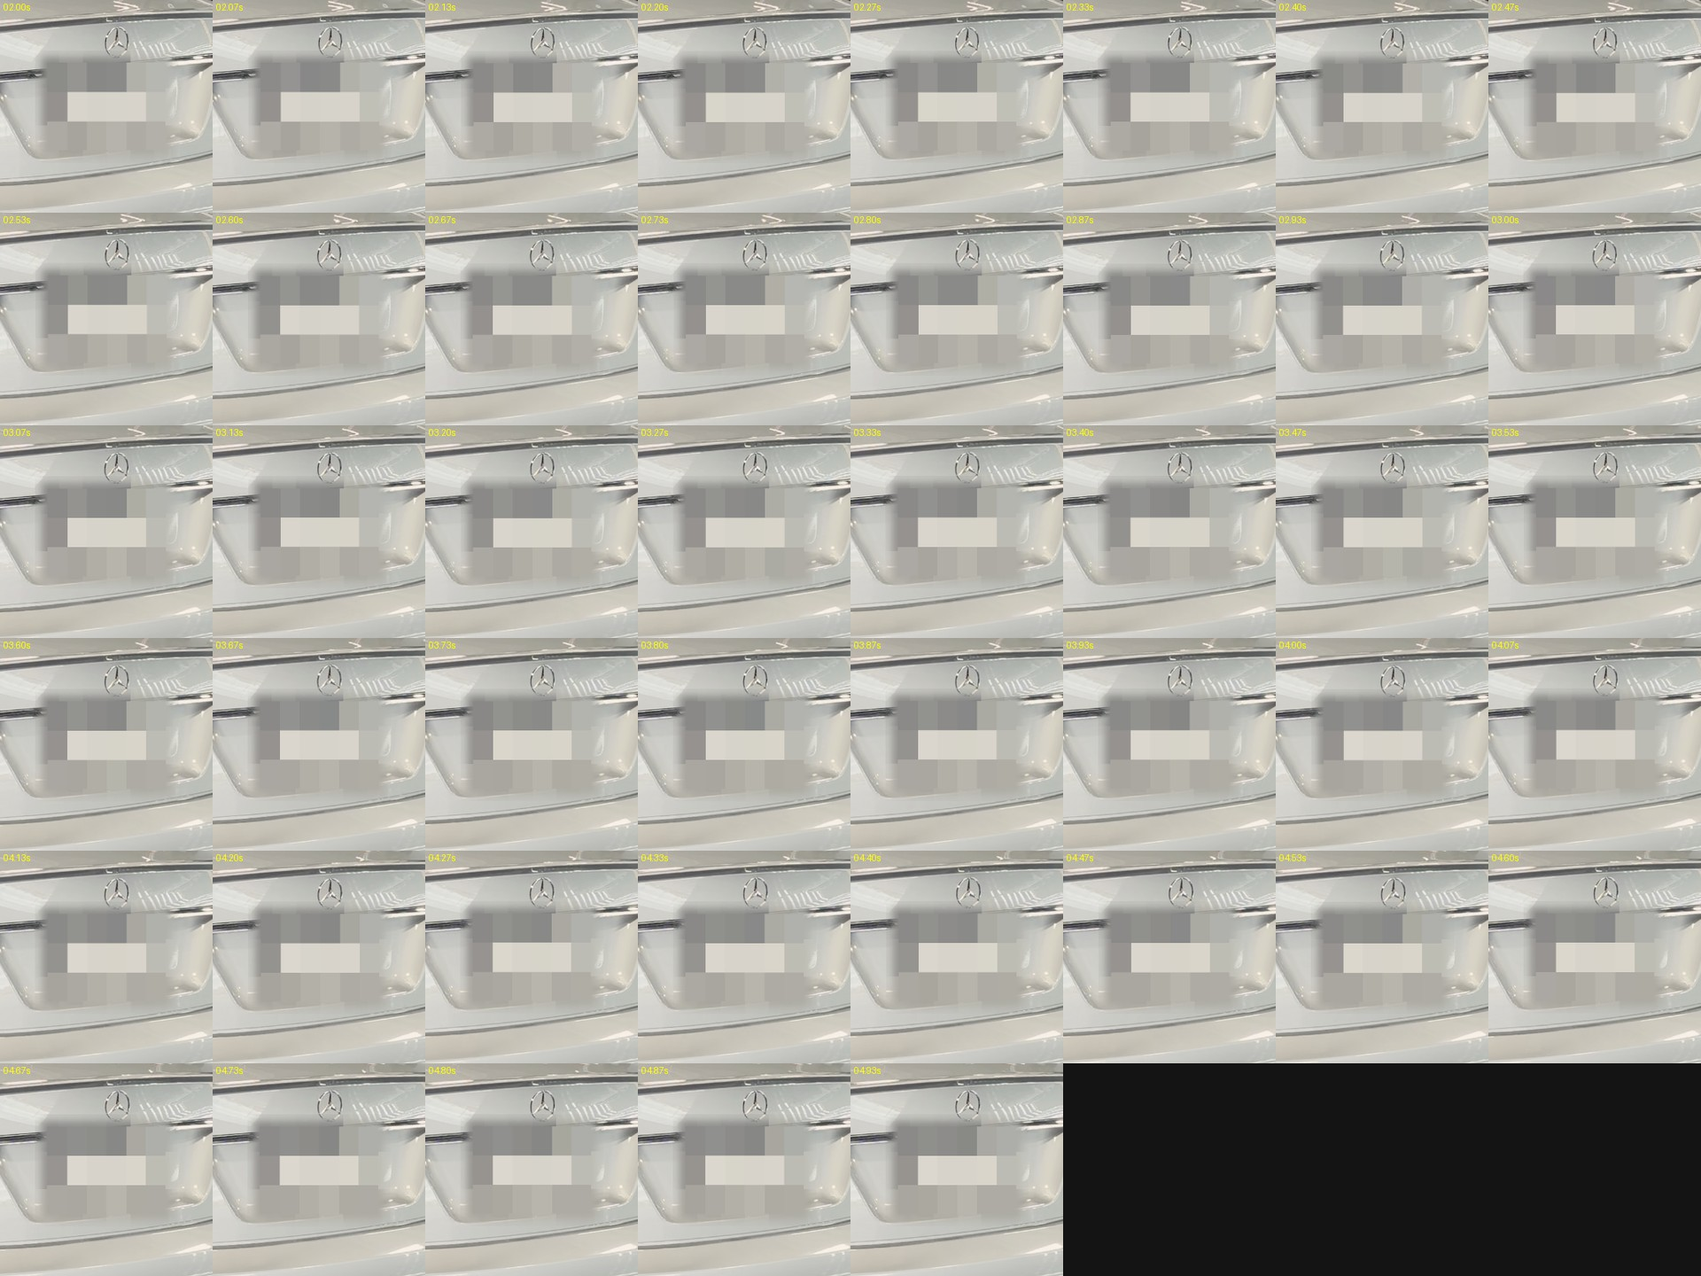
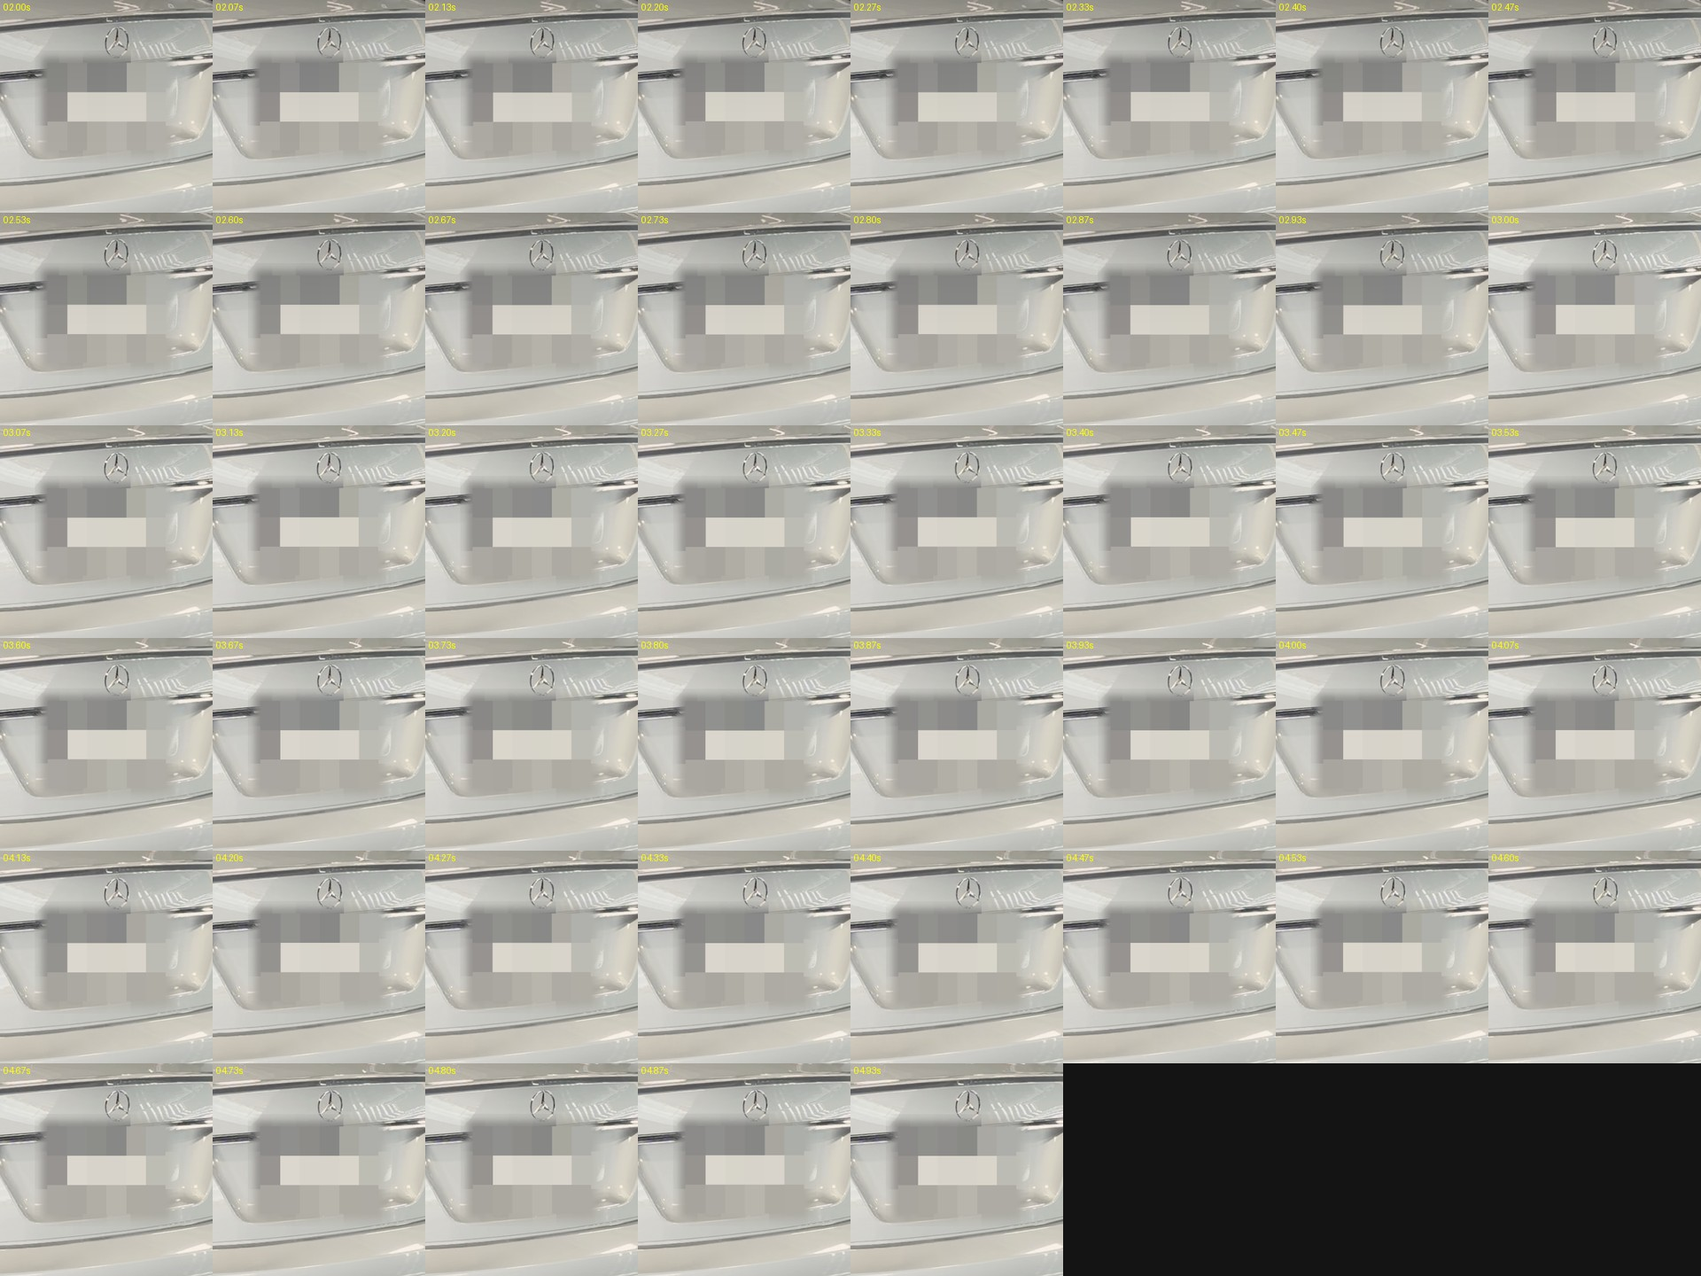
FD C63 Cut Back v2: brands off screen, car sound only, 15.15 s
After nq-check: parts framed clear of the hang tag and the can's etched
maker text (every-frame brand-scan sheets), lift and third-party branding
off the before shot, synthetic sub hits and whoosh removed (real L/J-cuts
instead), parts cut to 2.9 s, NEW. on the X-pipe, piping close-up added
to the payoff, hook text 40 px lower, dates sourced in README.

Claude-Session: https://claude.ai/code/session_01VygxzDhjPWGsTKabbZH8VW

diff --git a/formula-dynamics/14-fd-commercials/2026-10-28-c63-cut-back/build.py b/formula-dynamics/14-fd-commercials/2026-10-28-c63-cut-back/build.py
@@ -7,7 +7,8 @@ One car, one question: open on the payoff (a rev), cut back to the stock car
 Pipeline: ffmpeg decodes each source window (autorotated to 2160x3840 portrait)
 -> numpy/OpenCV per frame: plate + meter redaction (tracked, in source space),
 crop/push, grade, text -> raw frames piped to libx264. Audio is rebuilt in numpy
-from the same windows plus self-synthesised sub hits, then two-pass loudnorm.
+from the same windows only (the car's own sound, no music, no added effects),
+then two-pass loudnorm.
 
 Usage:
   python3 build.py --raw <dir with IMG_0325/0579/0590.MOV> [--stills] [--only-audio]
@@ -37,7 +38,7 @@ RED = fd_brand.rgb(fd_brand.RED)
 ICON = FD / "02-logos/png-transparent/fd-icon-mark-only--white_1000w.png"
 EXPORTS = HERE / "exports"
 QA = EXPORTS / "qa"
-OUT_MP4 = EXPORTS / "FD C63 - Cut Back (exhaust, 17s) - INSTAGRAM 1080x1920.mp4"
+OUT_MP4 = EXPORTS / "FD C63 - Cut Back (exhaust, 15s) - INSTAGRAM 1080x1920.mp4"
 OUT_COVER = EXPORTS / "FD C63 - Cut Back - cover STATIC 1080x1920.jpg"
 
 # 9:16 keep-out zones: top 11%, bottom 20%, left 5%, right 16%
@@ -50,6 +51,8 @@ SAFE = dict(x0=int(W * 0.05), x1=int(W * 0.84), y0=int(H * 0.11), y1=int(H * 0.8
 PLATE_0590 = (690, 745, 1100, 1015)
 METER_0590 = (632, 2075, 910, 2480)       # LCD readout of the sound meter
 PLATE_0325 = (1165, 1880, 1395, 2050)
+LIVERY_0325 = (1495, 1610, 1610, 1750)    # another customer's car: sponsor logo + name on its side
+CRATE_0325 = (1640, 2050, 1780, 2150)     # printed maker emblems on a parts box by the tail light
 
 # ---------------------------------------------------------------------------
 # Shot list. crop = ((cx, cy, w) at start, (cx, cy, w) at end) in source px;
@@ -59,28 +62,34 @@ SHOTS = [
     dict(name="hook", src="IMG_0590.MOV", t_in=63.40, dur=2.0,
          crop=((1530, 1120, 1260), (1565, 1200, 1120)),
          redact=[("plate", PLATE_0590, (6, 3)), ("meter", METER_0590, (3, 4))]),
+    # crop top held at source y 1380: the lift posts' maker branding sits above y 1290
     dict(name="before", src="IMG_0325.MOV", t_in=4.25, dur=3.0,
-         crop=((900, 1900, 1800), (930, 1900, 1660)),
-         redact=[("plate", PLATE_0325, (6, 3))]),
-    # 0579 windows start at 7.2 s: before that a branded hang tag (part maker's logo,
-    # serial and address) is in frame, and part brands stay off screen.
-    dict(name="parts1", src="IMG_0579.MOV", t_in=7.20, dur=1.0,
-         crop=((1080, 1920, 2160), (1080, 1800, 1900)), redact=[]),
-    dict(name="parts2", src="IMG_0579.MOV", t_in=8.30, dur=1.0,
-         crop=((1080, 1920, 1880), (1080, 1920, 2100)), redact=[]),
-    dict(name="parts3", src="IMG_0579.MOV", t_in=9.60, dur=1.3,
-         crop=((1080, 1920, 2160), (1080, 2000, 1900)), redact=[]),
-    dict(name="parts4", src="IMG_0579.MOV", t_in=11.10, dur=1.2,
-         crop=((1080, 2100, 1750), (1080, 2100, 1900)), redact=[]),
-    dict(name="parts5", src="IMG_0579.MOV", t_in=12.35, dur=1.5,
-         crop=((1080, 1920, 2160), (1080, 1980, 2000)), redact=[]),
-    dict(name="coldstart", src="IMG_0590.MOV", t_in=6.15, dur=2.45,
+         crop=((1150, 2500, 1260), (1150, 2447, 1200)),
+         redact=[("plate", PLATE_0325, (6, 3)), ("livery", LIVERY_0325, (3, 3)),
+                 ("crate", CRATE_0325, (3, 2))]),
+    # Parts (0579). Part brands stay off screen, by framing only:
+    #  - the hang tag (maker's logo, serial, address) hangs under the X-pipe's second brace;
+    #    parts1 is framed left of / above it for every frame;
+    #  - the muffler can carries an etched maker name and text lines on its side; parts2 and
+    #    parts3 are framed below / above the can.
+    dict(name="parts1", src="IMG_0579.MOV", t_in=5.10, dur=1.1,
+         crop=((530, 1400, 1060), (500, 1650, 980)), redact=[]),
+    dict(name="parts2", src="IMG_0579.MOV", t_in=7.45, dur=0.5,
+         crop=((420, 3200, 800), (420, 3260, 760)), redact=[]),
+    dict(name="parts3", src="IMG_0579.MOV", t_in=10.35, dur=1.3,
+         crop=((600, 1740, 1200), (800, 1800, 1100)), redact=[]),
+    dict(name="coldstart", src="IMG_0590.MOV", t_in=6.20, dur=2.45, a_pre=0.50,
          crop=((1330, 1475, 1659), (1350, 1475, 1590)),
          redact=[("plate", PLATE_0590, (6, 3)), ("meter", METER_0590, (3, 4))]),
-    dict(name="rev", src="IMG_0590.MOV", t_in=54.45, dur=2.55,
+    # the new burnt piping under the bumper, between the tip pairs; source y 1027-2093
+    # keeps the plate (ends y 1015) out and the meter's logo box far below
+    dict(name="piping", src="IMG_0590.MOV", t_in=53.90, dur=0.8,
+         crop=((880, 1560, 520), (880, 1580, 470)),
+         redact=[("plate", PLATE_0590, (6, 3)), ("meter", METER_0590, (3, 4))]),
+    dict(name="rev", src="IMG_0590.MOV", t_in=54.70, dur=2.30,
          crop=((1420, 1300, 1400), (1420, 1300, 1400)),
          redact=[("plate", PLATE_0590, (6, 3)), ("meter", METER_0590, (3, 4))]),
-    dict(name="end", src="IMG_0590.MOV", t_in=57.00, dur=1.5,
+    dict(name="end", src="IMG_0590.MOV", t_in=57.00, dur=1.7,
          crop=((1420, 1300, 1400), (1420, 1300, 1400)),
          redact=[("plate", PLATE_0590, (6, 3)), ("meter", METER_0590, (3, 4))],
          darken=True),
@@ -106,7 +115,7 @@ CARDS = [
     dict(id="hook", t_in=0.0, t_out=shot_at("before")["t0"]),
     dict(id="SEP 29", t_in=shot_at("before")["t0"], t_out=shot_at("before")["t0"] + 1.0, typed=True),
     dict(id="OCT 7", t_in=P1, t_out=P1 + 1.0, typed=True),
-    dict(id="NEW.", t_in=P1 + 7 / FPS, t_out=P1 + 7 / FPS + 0.7),
+    dict(id="NEW.", t_in=P1 + 6 / FPS, t_out=P1 + 6 / FPS + 0.7),     # on the X-pipe
     dict(id="endmark", t_in=shot_at("end")["t0"], t_out=TOTAL),
 ]
 
@@ -137,7 +146,7 @@ def card_hook():
         size -= 2
     f = font(size)
     x = SAFE["x0"] + 10
-    y = SAFE["y0"] + 30
+    y = SAFE["y0"] + 70                       # 40 px lower than v1: clears the grid's 3:4 crop
     asc, desc = f.getmetrics()
     lh = int(size * 0.92)
     d.text((x, y), l1, font=f, fill=(255, 255, 255, 255))
@@ -406,27 +415,6 @@ def read_audio(path, t_in, dur):
     return a.reshape(-1, 2).copy()
 
 
-def sub_hit(dur=0.35, f0=58.0, level=0.5):
-    n = int(dur * SR); t = np.arange(n) / SR
-    f = f0 * (1 + 0.6 * np.exp(-t * 30))                      # small pitch drop
-    ph = 2 * np.pi * np.cumsum(f) / SR
-    env = np.exp(-t * 9) * np.minimum(1, t / 0.004)
-    s = np.sin(ph) * env * level
-    return np.stack([s, s], axis=1)
-
-
-def whoosh(dur=0.45, level=0.12, seed=7):
-    rng = np.random.default_rng(seed)
-    n = int(dur * SR)
-    x = rng.standard_normal(n)
-    # crude band-pass via moving averages
-    lp = np.convolve(x, np.ones(12) / 12, mode="same")
-    bp = lp - np.convolve(lp, np.ones(120) / 120, mode="same")
-    env = np.sin(np.linspace(0, np.pi, n)) ** 2 * np.linspace(0.4, 1, n)
-    s = bp / (np.abs(bp).max() + 1e-9) * env * level
-    return np.stack([s, s * 0.9], axis=1)
-
-
 def fade(a, fin=0.008, fout=0.012):
     n = len(a); i = int(fin * SR); o = int(fout * SR)
     if i: a[:i] *= np.linspace(0, 1, i)[:, None]
@@ -434,28 +422,25 @@ def fade(a, fin=0.008, fout=0.012):
     return a
 
 
-GAIN_DB = {"hook": 0, "before": 0, "parts1": -4, "parts2": -4, "parts3": -4, "parts4": -4, "parts5": -4,
-           "coldstart": 0, "rev": 0, "end": 0}
+GAIN_DB = {"hook": 0, "before": 0, "parts1": 0, "parts2": 0, "parts3": 0,
+           "coldstart": 0, "piping": 0, "rev": 0, "end": 0}
+A_POST = {"before": 1.20}      # L-cut: the stock car's rev and idle carry 1.2 s into the parts
 
 
 def build_audio(raw, wav_path):
     N = int(round(TOTAL * SR))
     mix = np.zeros((N + SR, 2), np.float32)
+    # Each window's own audio only. J-cut (a_pre): the cold start's own cranking comes in
+    # under the last parts cut; L-cut (A_POST): the stock rev decays under the first.
     for s in SHOTS:
-        a = read_audio(raw / s["src"], s["t_in"], s["dur"])
-        a = a[: int(round(s["dur"] * SR))]
-        a = fade(a, fin=0.0 if s["name"] == "hook" else 0.008,
-                 fout=1.3 if s["name"] == "end" else 0.012) * (10 ** (GAIN_DB[s["name"]] / 20))
-        i0 = int(round(s["t0"] * SR))
+        pre, post = s.get("a_pre", 0.0), A_POST.get(s["name"], 0.0)
+        dur = s["dur"] + pre + post
+        a = read_audio(raw / s["src"], s["t_in"] - pre, dur)
+        a = a[: int(round(dur * SR))]
+        a = fade(a, fin=0.0 if s["name"] == "hook" else (0.15 if pre else 0.008),
+                 fout=1.3 if s["name"] == "end" else (0.50 if post else 0.012)) * (10 ** (GAIN_DB[s["name"]] / 20))
+        i0 = int(round((s["t0"] - pre) * SR))
         mix[i0:i0 + len(a)] += a
-    # sub hits on the parts cuts and into the payoff; whoosh into the payoff
-    for nm in ("parts1", "parts2", "parts3", "parts4", "parts5", "coldstart"):
-        i0 = int(round(shot_at(nm)["t0"] * SR))
-        h = sub_hit(level=0.55 if nm == "coldstart" else 0.4)
-        mix[i0:i0 + len(h)] += h
-    w = whoosh()
-    i1 = int(round(shot_at("coldstart")["t0"] * SR)) - len(w)
-    mix[i1:i1 + len(w)] += w
     mix = mix[:N]
     mix *= 0.7 / max(1e-9, float(np.abs(mix).max()))   # headroom before 16-bit; loudnorm sets level
     pcm = (np.clip(mix, -1, 1) * 32767).astype("<i2").tobytes()
@@ -519,6 +504,11 @@ def main():
             enc.stdin.write(o.tobytes())
             if meta["boxes"]:
                 log.append(dict(frame=fidx, t=round(tsec, 3), shot=s["name"], **meta))
+            if s["name"].startswith("parts") or s["name"] == "piping":
+                # every frame of the parts (brand scan) and of the piping close-up
+                sd = work / "scan_frames"; sd.mkdir(exist_ok=True)
+                Image.fromarray(o).resize((540, 960), Image.LANCZOS).save(
+                    sd / f"{'parts' if s['name'].startswith('parts') else 'piping'}__{fidx:04d}.jpg", quality=92)
             if meta["boxes"] and fidx % 2 == 0:
                 # QA crops written now from the final frame (text included)
                 save_qa_tiles(o, meta, s["name"], fidx, work)
@@ -571,6 +561,25 @@ def make_qa_sheets(work):
         for i, p in enumerate(ps):
             sheet.paste(Image.open(p), ((i % cols) * 240, (i // cols) * 240))
         sheet.save(QA / f"redaction_{shot}_{nm}.jpg", quality=90)
+    # brand scan: every frame of the parts section, and every frame of the piping shot,
+    # 540x960 tiles (half the delivered size), 6 x 2 per sheet, stamped with timeline time
+    for old in QA.glob("brandscan_*.jpg"):
+        old.unlink()
+    for old in QA.glob("piping_*.jpg"):
+        old.unlink()
+    sf = work / "scan_frames"
+    for kind, stem in (("parts", "brandscan_parts"), ("piping", "piping_every_frame")):
+        ps = sorted(sf.glob(f"{kind}__*.jpg"))
+        for k in range(0, len(ps), 12):
+            sheet = Image.new("RGB", (6 * 540, 2 * 960), (20, 20, 20))
+            for i, pth in enumerate(ps[k:k + 12]):
+                tile = Image.open(pth)
+                fi = int(pth.stem.split("__")[1])
+                d = ImageDraw.Draw(tile)
+                d.rectangle([0, 0, 170, 44], fill=(0, 0, 0))
+                d.text((6, 4), f"{fi / FPS:05.2f}s f{fi}", font=font(36), fill=(255, 255, 0))
+                sheet.paste(tile, ((i % 6) * 540, (i // 6) * 960))
+            sheet.save(QA / f"{stem}_{k // 12 + 1:02d}.jpg", quality=88)
     # whole render, 1 frame per 0.5 s
     sd = work / "every05"; sd.mkdir(exist_ok=True)
     subprocess.run(["ffmpeg", "-v", "error", "-y", "-i", str(OUT_MP4), "-vf",

diff --git a/formula-dynamics/14-fd-commercials/2026-10-28-c63-cut-back/README.md b/formula-dynamics/14-fd-commercials/2026-10-28-c63-cut-back/README.md
@@ -9,64 +9,81 @@ Build: `python3 build.py --raw <folder with IMG_0325/0579/0590.MOV> [--work <scr
 Needs ffmpeg 6+, numpy, Pillow, opencv-python-headless. Brand values come from `99-toolkit/fd_brand.py`.
 Source footage and the mp4 are not committed.
 
-Output: 1080x1920, 30 fps, H.264 High, yuv420p/bt709, AAC 48 kHz stereo 192k, 17.50 s.
+Output: `exports/FD C63 - Cut Back (exhaust, 15s) - INSTAGRAM 1080x1920.mp4`, 1080x1920, 30 fps,
+H.264 High, yuv420p/bt709, AAC 48 kHz stereo 192k, 15.15 s (455 frames).
+
+v2 (2026-10-13), after nq-check: part brands off screen (hang tag and the can's etched name/text
+framed out), lift and third-party branding off the "before" shot, no synthetic sound, parts section
+cut from 6.65 s to 2.9 s, "NEW." moved onto the X-pipe, a close-up of the new piping under the
+bumper added to the payoff, hook text 40 px lower.
 
 ## Shot list (timeline / source)
 
 | # | timeline | source | source in-out | framing |
 |---|---|---|---|---|
 | hook | 0.00-2.00 | IMG_0590 | 63.40-65.40 | tight right-rear, slow push (crop w 1260 to 1120 src px); strongest rev (onset 63.5) |
-| before | 2.00-5.00 | IMG_0325 | 4.25-7.25 | trunk open, stock revs at 4.3 and 7.0; speech (0.1-2.1) avoided |
-| parts1 | 5.00-6.00 | IMG_0579 | 7.20-8.20 | tips close, push |
-| parts2 | 6.00-7.00 | IMG_0579 | 8.30-9.30 | pull |
-| parts3 | 7.00-8.30 | IMG_0579 | 9.60-10.90 | push |
-| parts4 | 8.30-9.50 | IMG_0579 | 11.10-12.30 | tight |
-| parts5 | 9.50-11.00 | IMG_0579 | 12.35-13.85 | wide of all parts |
-| coldstart | 11.00-13.45 | IMG_0590 | 6.15-8.60 | wider rear; cold start fires at src 6.7 = timeline 11.55 |
-| rev | 13.45-16.00 | IMG_0590 | 54.45-57.00 | held, uncut; bursts at src 54.6 and 56.6 |
-| end | 16.00-17.50 | IMG_0590 | 57.00-58.50 | same framing, darkened 72% + soft blur over 6 frames |
+| before | 2.00-5.00 | IMG_0325 | 4.25-7.25 | rear three-quarter, crop top held at src y 1380 so the lift posts' maker name (above y 1290) never shows; stock revs at 4.3 and 7.0 |
+| parts1 | 5.00-6.10 | IMG_0579 | 5.10-6.20 | X-pipe and its first brace; framed left of / above the hang tag every frame |
+| parts2 | 6.10-6.60 | IMG_0579 | 7.45-7.95 | macro of the X-pipe brace, below the muffler can |
+| parts3 | 6.60-7.90 | IMG_0579 | 10.35-11.65 | X-pipe outlets and the bent link pipe, above the muffler can |
+| coldstart | 7.90-10.35 | IMG_0590 | 6.20-8.65 | wider rear; cold start fires at src 6.70 = timeline 8.40 |
+| piping | 10.35-11.15 | IMG_0590 | 53.90-54.70 | close-up of the burnt piping under the bumper between the tip pairs (crop w 520 to 470, src y about 1100-2000; tips, plate and meter logo box out of frame); the rev burst lands on the cut |
+| rev | 11.15-13.45 | IMG_0590 | 54.70-57.00 | held, uncut; burst at src 56.6 |
+| end | 13.45-15.15 | IMG_0590 | 57.00-58.70 | same framing, darkened 72% + soft blur over 6 frames |
 
-0579 starts at 7.2 s on purpose: from 0 to about 7.0 s a branded hang tag (part maker's logo, a serial
-number and an address) hangs off the pipes in frame. IMG_0570 is not used (different car).
-IMG_0590 windows avoid the person at the left edge (about 1, 37-41 and 69-73 s).
+Part brands: in IMG_0579 a branded hang tag (maker's logo, serial, address) hangs under the X-pipe's
+second brace until about 7.4 s, and the muffler can carries the maker's name and lines of text etched on
+its side (readable whenever the can's side faces the camera, about 7.4-13.9 s). Every parts shot is framed
+so neither is in frame; `exports/qa/brandscan_parts_*.jpg` shows every frame of 5.00-7.90 at half size.
+IMG_0570 is not used (different car). IMG_0590 windows avoid the person at the left edge (about 1,
+37-41 and 69-73 s).
 
 ## Text cards (all Bebas Neue, inside the 9:16 safe zone: top 11%, bottom 20%, left 5%, right 16%)
 
 | card | in-out (s) | spec |
 |---|---|---|
-| WHAT DID WE DO / TO THIS C63? | 0.00-2.00 | white, 168 px, 2 lines, left at x 64, y 241; FD red #FE0F13 underline under "C63" only; soft top scrim |
+| WHAT DID WE DO / TO THIS C63? | 0.00-2.00 | white, 168 px, 2 lines, left at x 64, top y 281 (40 px lower than v1, so it clears the grid's 3:4 crop at y 240 with margin); FD red #FE0F13 underline under "C63" only; soft top scrim |
 | SEP 29 | 2.00-3.00 | white 72 px top-left, typed 2 frames per character, light top scrim |
 | OCT 7 | 5.00-6.00 | as SEP 29 |
-| NEW. | 5.233-5.933 (7 frames in, 0.7 s) | FD red, 380 px, centred in safe zone, hard on/off. Red, not white: the ground is white paper |
-| End mark | 16.00-17.50 (6-frame fade in) | `fd-icon-mark-only--white` 380 px wide, the five-segment stripe drawn from `fd_brand.ACCENT_STRIPE` (red 36.7 / black 21.4 / white 19.4 / green 17.0 / yellow 5.5), "DM TO BOOK YOUR BUILD" 60 px white |
+| NEW. | 5.20-5.90 (6 frames in, 0.7 s) | FD red, 380 px, centred in safe zone over the X-pipe, hard on/off. Red, not white: the ground is white paper. Not used on any tip shot |
+| End mark | 13.45-15.15 (6-frame fade in) | `fd-icon-mark-only--white` 380 px wide, the five-segment stripe drawn from `fd_brand.ACCENT_STRIPE` (red 36.7 / black 21.4 / white 19.4 / green 17.0 / yellow 5.5), "DM TO BOOK YOUR BUILD" 60 px white |
 
-No figures, prices, part brands or material names. Copy passed SlopMonster 5/5.
+No figures, prices, part brands or material names. Copy passed SlopMonster 5/5 (unchanged from v1).
 
-## Redaction (plates and the sound meter)
+**Dates:** "SEP 29" and "OCT 7" are the camera creation dates in each clip's metadata
+(`com.apple.quicktime.creationdate`): IMG_0325 2026-09-29T17:33:30-0700, IMG_0579
+2026-10-07T12:34:34-0700, IMG_0590 2026-10-07T15:37:14-0700.
 
-Box collapsed to a colour field (plates 6x3 blocks, meter LCD 3x4), 24 px feathered outer edge; the box
-itself is always fully covered. Boxes are tracked per frame by template match (OpenCV, half res,
-search +-90 px) and smoothed over 5 frames, in source space before the crop.
+## Redaction (plates, the sound meter, third-party branding)
+
+Box collapsed to a colour field (plates 6x3 blocks, meter LCD 3x4, livery 3x3, crate 3x2), 24 px
+feathered outer edge; the box itself is always fully covered. Boxes are tracked per frame by template
+match (OpenCV, half res, search +-90 px) and smoothed over 5 frames, in source space before the crop.
 
 | window (timeline s) | what | tracker min score |
 |---|---|---|
 | 0.00-2.00 | 0590 plate (part in frame), meter (just off frame) | 1.00 / 0.98 |
-| 2.00-5.00 | 0325 plate | 0.80 |
-| 11.00-13.45 | 0590 plate + meter LCD | 1.00 / 0.98 |
-| 13.45-16.00 | 0590 plate + meter LCD | 1.00 / 0.98 |
-| 16.00-17.50 | 0590 plate + meter LCD (under the darken) | 1.00 / 0.99 |
+| 2.00-5.00 | 0325 plate; another customer's car's sponsor logo and name (right edge); printed maker emblems on a parts box beside the tail light | 0.80 / 0.96 / 0.82 |
+| 7.90-10.35 | 0590 plate + meter LCD | 1.00 / 0.98 |
+| 10.35-11.15 | 0590 plate + meter LCD (both outside the piping crop; tracked anyway) | 1.00 / 0.99 |
+| 11.15-13.45 | 0590 plate + meter LCD | 1.00 / 0.98 |
+| 13.45-15.15 | 0590 plate + meter LCD (under the darken) | 1.00 / 0.99 |
 
-Check sheets: `exports/qa/redaction_<shot>_<plate|meter>.jpg`, every 2nd frame at 240 px tiles, cropped
-around the box. `exports/qa/render_every_0.5s.jpg` is the whole render at 1 frame per 0.5 s.
+Check sheets in `exports/qa/`: `redaction_<shot>_<box>.jpg` (every 2nd frame at 240 px tiles, cropped
+around the box), `brandscan_parts_01-08.jpg` (every frame of the parts section, 540x960 tiles),
+`piping_every_frame_01-02.jpg` (every frame of the piping close-up), `render_every_0.5s.jpg` (whole render).
 
 ## Sound
 
-Car sound only, no music. Each window's own audio, 8-12 ms fades at cuts (0579 at -4 dB under the
-parts). Self-made: 58 Hz sub hits at 5.0, 6.0, 7.0, 8.3, 9.5 and 11.0 s, a noise whoosh 10.55-11.0 s,
-1.3 s fade on the end. Mix peak-normalised to -3.1 dBFS, then two-pass loudnorm (I -14, TP -1.5, linear).
+The car's own sound only: no music, no added effects (v1's synthetic 58 Hz sub hits and noise whoosh are
+gone). Each window's own audio with 8-12 ms fades at cuts, plus two real-audio overlaps: an L-cut where
+the stock car's rev and idle (IMG_0325 7.25-8.45) carry 1.2 s into the parts with a 0.5 s fade, and a
+J-cut where the cold start's own audio (IMG_0590 from 5.70) comes in 0.5 s under the last parts cut so
+the starter is heard before the picture changes. Bench audio under the parts at 0 dB. 1.3 s fade on the
+end. Mix peak-normalised, then two-pass loudnorm (I -14, TP -1.5, linear).
 
-Measured on the delivered mp4 (ffmpeg ebur128, peak=true): **-14.0 LUFS integrated, LRA 8.7 LU,
-true peak -1.5 dBTP.**
+Measured on the delivered mp4 (ffmpeg ebur128, peak=true): **-13.9 LUFS integrated, LRA 4.9 LU,
+true peak -2.1 dBTP.** About 6.3-7.9 s is still quiet (bench room tone, -38 to -40 LUFS momentary).
 
 ## Grade
 
